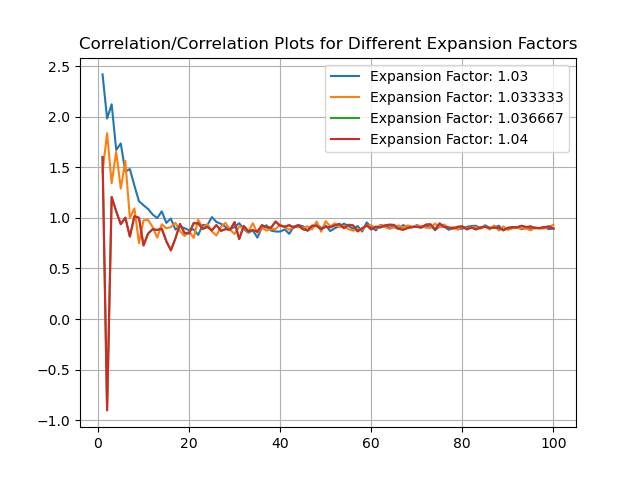
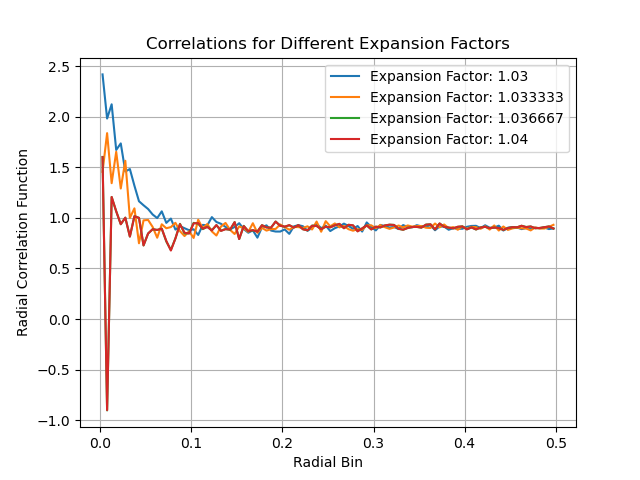
Fixing Plots for Distributed Memory Correlations
Fixed the axis and plot title's for all plot and changed the plot.py file to assign proper values to the correlation plot bins between 0 and 5.

diff --git a/Correlation/plot.py b/Correlation/plot.py
@@ -2,14 +2,19 @@ import pandas as pd
 import numpy as np
 import matplotlib.pyplot as plt
 
-filename = "Comparison_4_1.03_1.04"
+filename = "Comparison_4_1._1.04"
 
 data = pd.read_csv("Correlation/" + filename + ".csv").iloc[1:, :] #due to inf value
+step = 0.5/len(data)
+x = np.arange(0, 0.5, step)
+x += (x[1] - x[0])/2
 
 plt.figure()
-plt.title("Correlation/Correlation Plots for Different Expansion Factors")
+plt.title("Correlations for Different Expansion Factors")
+plt.xlabel("Radial Bin")
+plt.ylabel("Radial Correlation Function")
 for i in data.columns:
-   plt.plot(data[i],label = f"Expansion Factor: {i}")
+   plt.plot(x,data[i],label = f"Expansion Factor: {i}")
 plt.legend(loc='best')
 plt.grid(True)
 plt.savefig("Correlation/" + filename + ".png")
